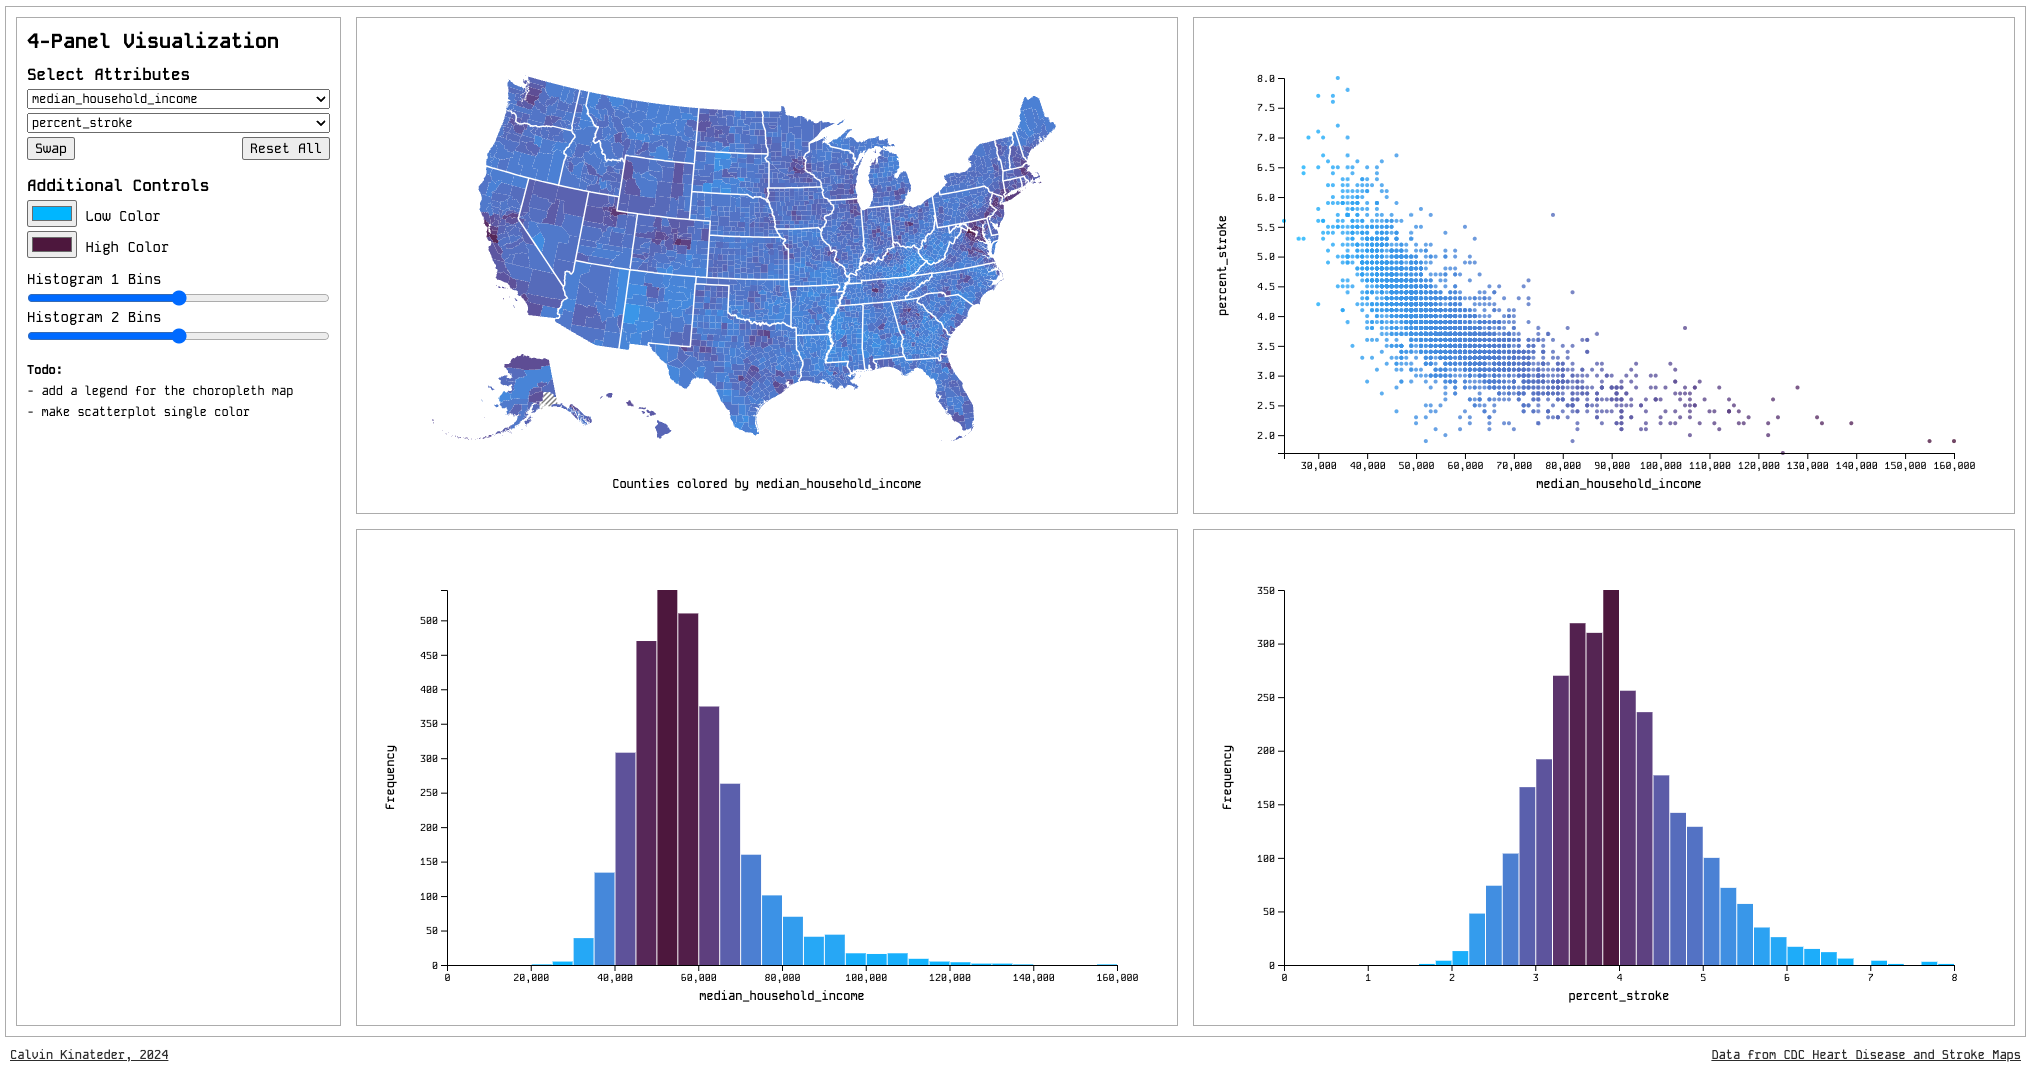
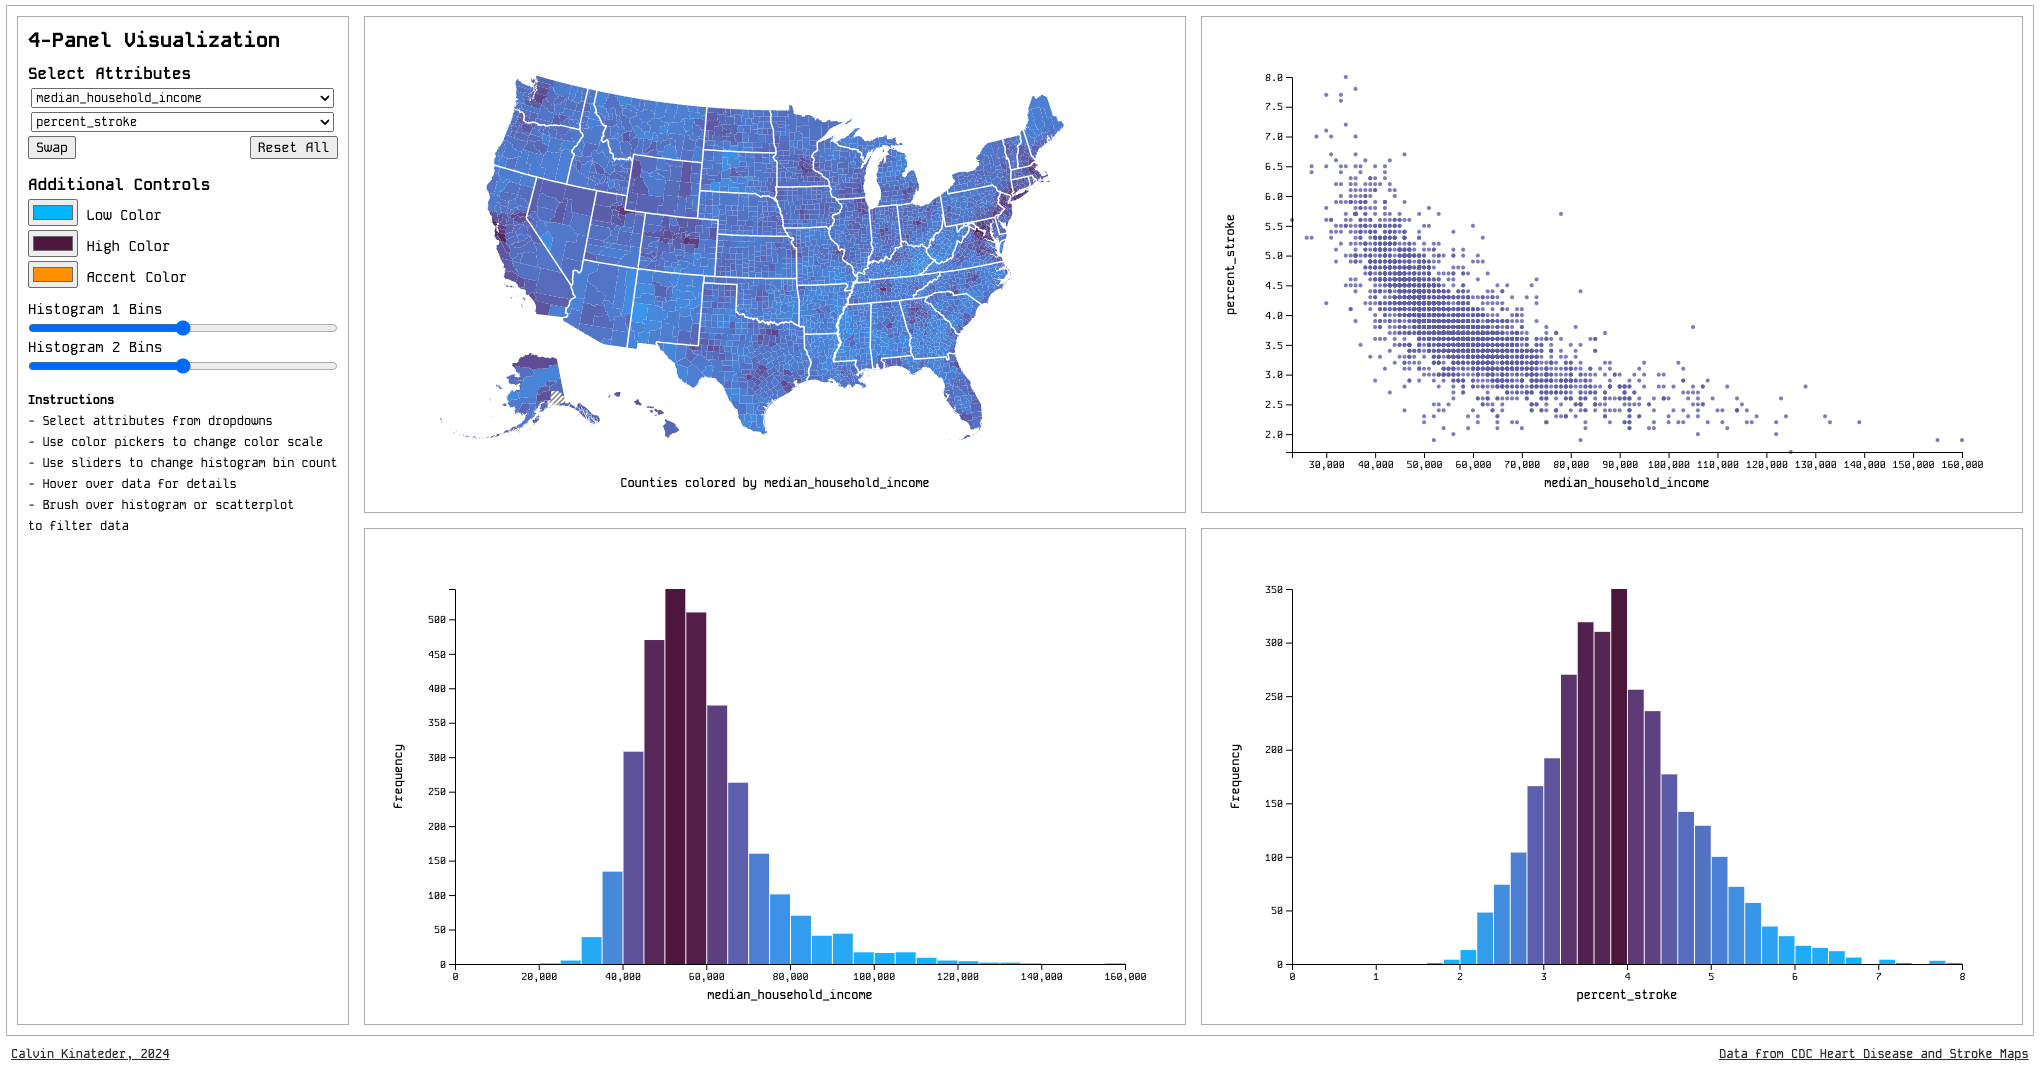
readme and style

diff --git a/js/main.js b/js/main.js
@@ -13,7 +13,11 @@ let allData,
   defaultColorRange,
   colorRange,
   accentColor,
-  defaultAccentColor;
+  panelWidth,
+  panelHeight,
+  defaultAccentColor,
+  defaultWidth,
+  defaultHeight;
 
 let attributeRanges;
 
@@ -109,6 +113,11 @@ Promise.all([
     defaultColorRange = ["#00BEFF", "#571846"];
     defaultHistogramBins = 40;
     defaultAccentColor = "#ff9b00";
+    defaultWidth = 650;
+    defaultHeight = 400;
+
+    panelWidth = defaultWidth;
+    panelHeight = defaultHeight;
 
     attributeLabels = defaultAttributeLabels;
     colorRange = defaultColorRange;
@@ -126,9 +135,10 @@ Promise.all([
     d3.select("#colorpicker-2").property("value", colorRange[1]);
     d3.select("#histogram-1-bins").property("value", defaultHistogramBins);
     d3.select("#histogram-2-bins").property("value", defaultHistogramBins);
+    d3.select("#colorpicker-3").property("value", accentColor);
+    d3.select("#panel-width").property("value", defaultWidth);
+    d3.select("#panel-height").property("value", defaultHeight);
 
-    const panelWidth = 800;
-    const panelHeight = 475;
     //const colorRange = ["#386C30", "#04F11B"];
 
     // colored by first attribute
@@ -193,6 +203,27 @@ function resetHistogramBrushes() {
   histogram2.updateVis();
 }
 
+function updateDimensions() {
+  panelWidth = d3.select("#panel-width").property("value");
+  panelHeight = d3.select("#panel-height").property("value");
+
+  scatterplot.setDimensions(panelWidth, panelHeight);
+  chloropleth.setDimensions(panelWidth, panelHeight);
+  histogram1.setDimensions(panelWidth, panelHeight);
+  histogram2.setDimensions(panelWidth, panelHeight);
+
+  updateButton();
+}
+
+//update width and height of the panel
+d3.select("#panel-width").on("change", () => {
+  updateDimensions();
+});
+
+d3.select("#panel-height").on("change", () => {
+  updateDimensions();
+});
+
 // swap the attributes with swap button
 d3.select("#swap-btn").on("click", () => {
   let attribute1 = d3.select("#attribute-1-select").property("value");
@@ -220,6 +251,11 @@ function resetAll() {
   d3.select("#histogram-1-bins").property("value", defaultHistogramBins);
   d3.select("#histogram-2-bins").property("value", defaultHistogramBins);
   d3.select("#colorpicker-3").property("value", defaultAccentColor);
+  d3.select("#panel-width").property("value", defaultWidth);
+  d3.select("#panel-height").property("value", defaultHeight);
+
+  updateDimensions();
+
   histogram1.changeNumBins(defaultHistogramBins);
   histogram2.changeNumBins(defaultHistogramBins);
 

diff --git a/index.html b/index.html
@@ -112,6 +112,33 @@
                 class="input-slider legend-controls-element"
               />
             </div>
+            <!-- width and height input sliders -->
+            <div
+              class="pickers"
+              title="Control dimensions of windows"
+              style="display: none"
+            >
+              <label> Window Width</label>
+              <input
+                type="range"
+                min="300"
+                max="1400"
+                step="1"
+                value="700"
+                id="panel-width"
+                class="input-slider legend-controls-element"
+              />
+              <label> Window Height</label>
+              <input
+                type="range"
+                min="100"
+                max="1000"
+                step="1"
+                value="450"
+                id="panel-height"
+                class="input-slider legend-controls-element"
+              />
+            </div>
           </div>
           <span style="font-size: 12px; margin-top: 15px">
             <strong>Instructions</strong>

diff --git a/js/choroplethMap.js b/js/choroplethMap.js
@@ -206,7 +206,7 @@ class ChoroplethMap {
           vis.height + vis.config.margin.bottom + 15
         })`
       )
-      .text("Counties colored by " + attributeLabels[0]);
+      .text(attributeLabels[0]);
 
     this.renderVis();
   }
@@ -216,5 +216,24 @@ class ChoroplethMap {
 
   changeColorRange(colorRange) {
     colorRange = colorRange;
+  }
+
+  calculateSize() {
+    let vis = this;
+
+    vis.width =
+      vis.config.containerWidth -
+      vis.config.margin.left -
+      vis.config.margin.right;
+    vis.height =
+      vis.config.containerHeight -
+      vis.config.margin.top -
+      vis.config.margin.bottom;
+  }
+
+  setDimensions(width, height) {
+    this.config.containerWidth = width;
+    this.config.containerHeight = height;
+    this.calculateSize();
   }
 }

diff --git a/js/scatter.js b/js/scatter.js
@@ -204,7 +204,7 @@ class ScatterPlot {
       .append("g")
       .attr("class", "axis x-axis")
       .attr("transform", `translate(0, ${vis.height})`)
-      .call(vis.xAxis);
+      .call(vis.xAxis.ticks(6));
 
     vis.yAxisGroup = vis.chart
       .append("g")
@@ -255,6 +255,12 @@ class ScatterPlot {
       vis.config.containerHeight -
       vis.config.margin.top -
       vis.config.margin.bottom;
+  }
+
+  setDimensions(width, height) {
+    this.config.containerWidth = width;
+    this.config.containerHeight = height;
+    this.calculateSize();
   }
 
   cleanData() {

diff --git a/js/histogram.js b/js/histogram.js
@@ -238,4 +238,23 @@ class Histogram {
   setExpression(expression) {
     this.expression = expression;
   }
+
+  calculateSize() {
+    let vis = this;
+
+    vis.width =
+      vis.config.containerWidth -
+      vis.config.margin.left -
+      vis.config.margin.right;
+    vis.height =
+      vis.config.containerHeight -
+      vis.config.margin.top -
+      vis.config.margin.bottom;
+  }
+
+  setDimensions(width, height) {
+    this.config.containerWidth = width;
+    this.config.containerHeight = height;
+    this.calculateSize();
+  }
 }

diff --git a/README.md b/README.md
@@ -2,6 +2,22 @@
 
 ![4-Panel Visualization](view.png)
 
+"""
+For documentation: assume that someone is encountering your project for the first time. 
+
+Explain the motivation for your application.  What can it allow someone to understand? 
+- 1 section on the data: Describe the data and include a link. 
+- 1 section on any sketches that you used to help design your visualization environment.  (optional- we haven't practiced sketching in class, yet)
+- 1 section on the visualization components: Explain each view of the data, the GUI, etc.  Explain how you can interact with your application, and how the views update in response to these interactions. 
+- 1 section on what your application enables you to discover: Present some findings you arrive at with your application. 
+ 1 section on your process- what libraries did you use?  How did you structure your code?  How can you access it and run it?  Link to your code (and the live application, if it is deployed online). 
+- UPDATE: optional- perhaps you struggled with the project and learned a lot, but maybe there wasn't quite time to create the project you hoped to have.  It may feel like you don't have as much to write in your documentation, so you can include
+    - 'future works' section where you describe what you wanted to do
+    - 'challenges' section, where you describe what technical difficulties you encountered while doing this project, and reflect on how you might approach future projects.
+- Include a 2-3 minute demo video, showing your application in action.  The easiest way to record this is with a screen capture tool, which also captures audio- such as Quicktime.  Use a voiceover or video captions to explain your application.  Demo videos should be sufficient on their own, but can reference your documentation.  Include the name of the project, your name, the project components, and how your application works.  You can present it on your webpage or on youtube, but linked on your webpage. 
+
+"""
+
 ## Data
 
 Describe the data and include a link. 
